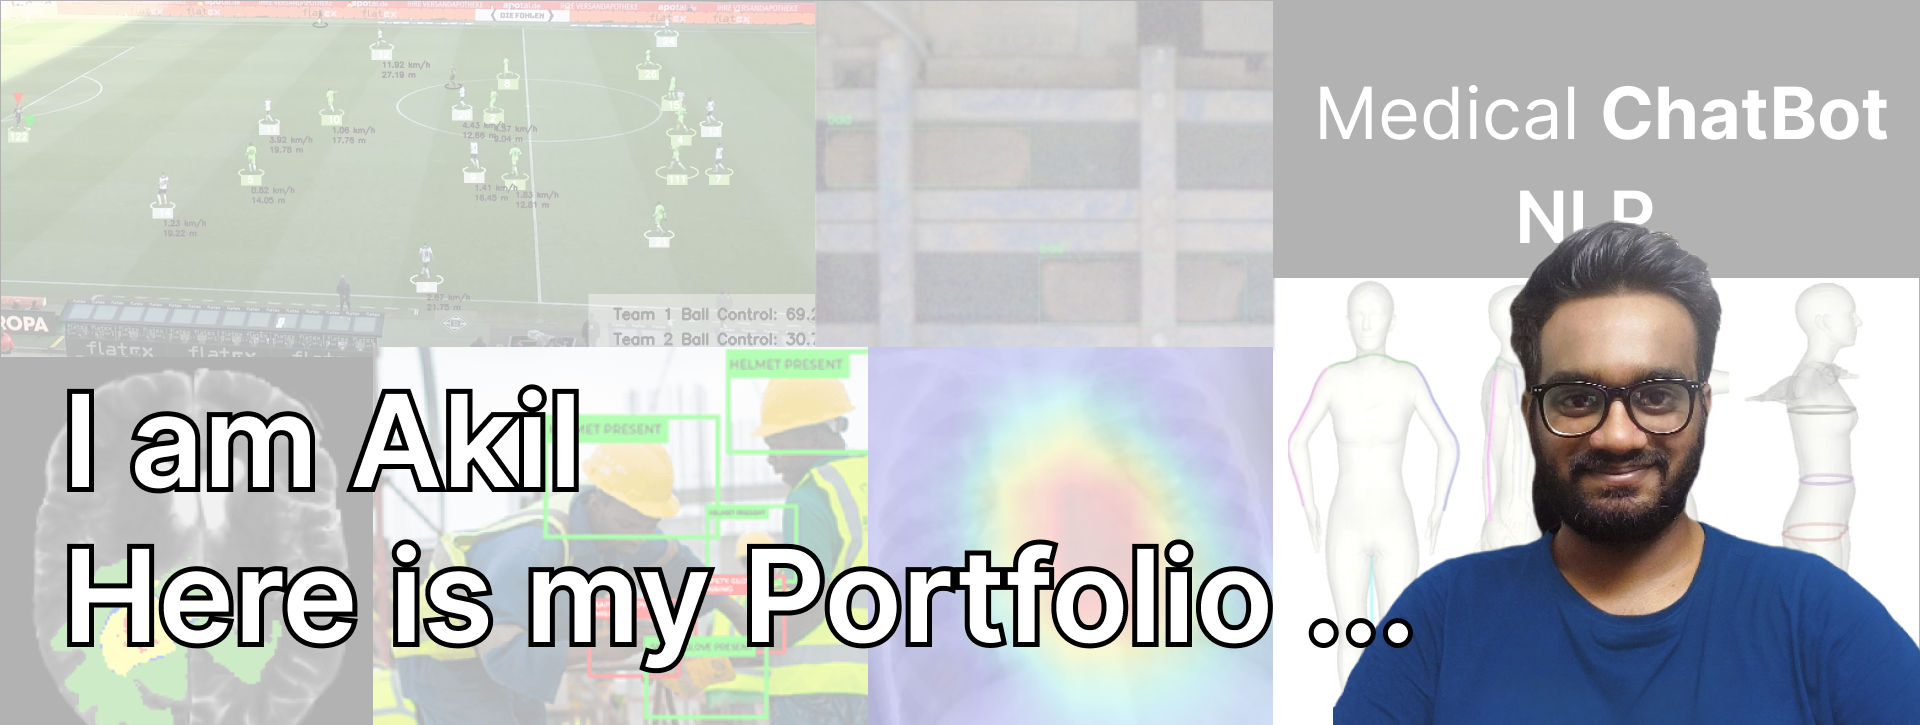
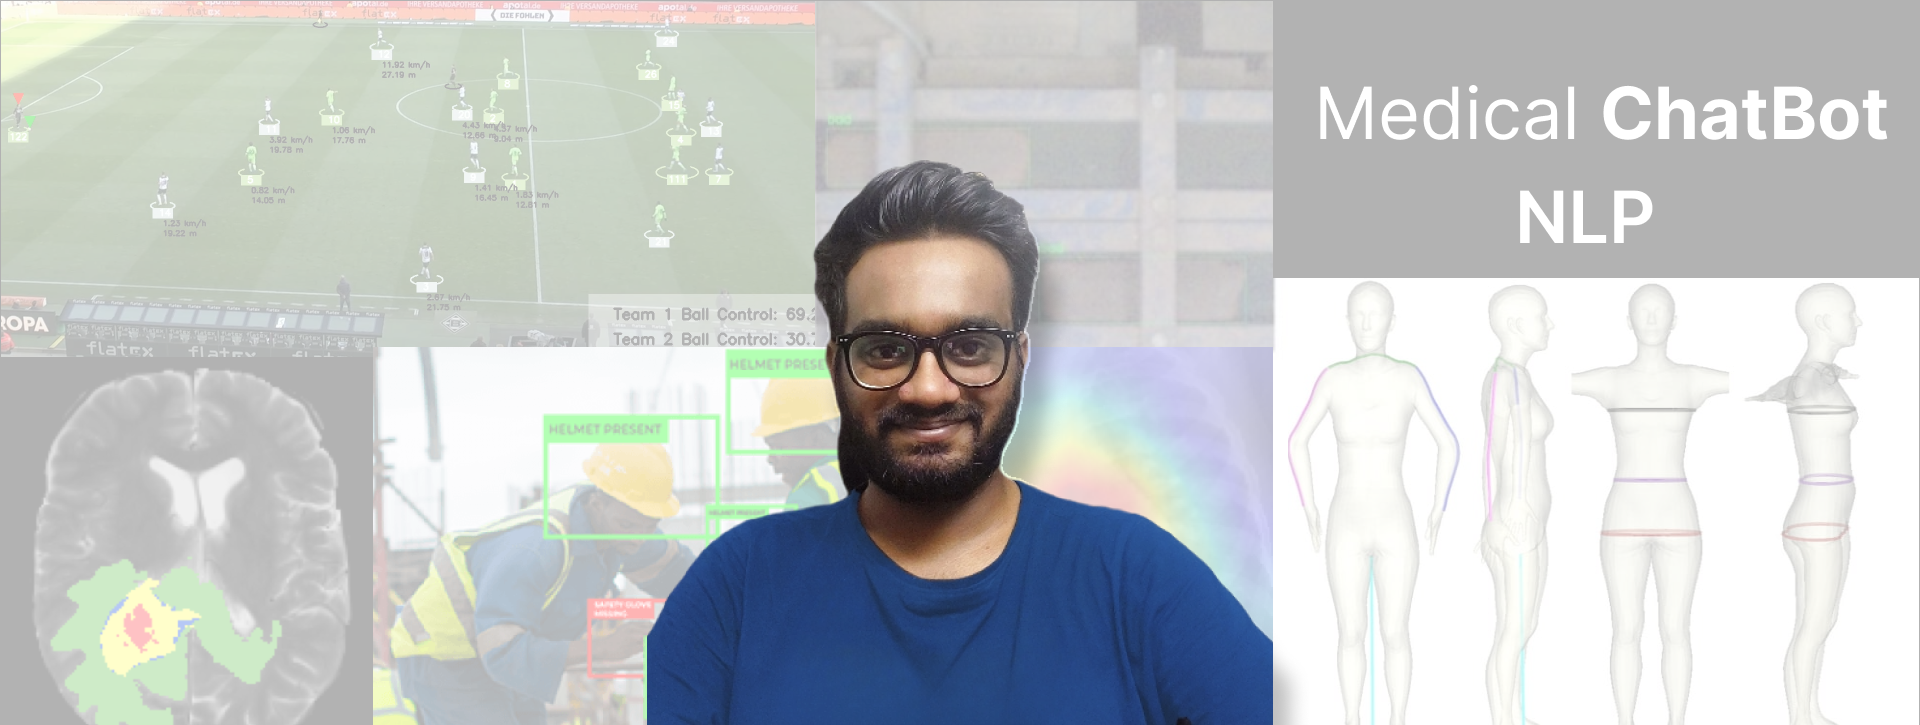
added other project details and images

Changed region(s): [[0.0312, 0.2124, 1.0, 1.0], [0.0312, 0.5159, 0.3125, 0.6979]]

diff --git a/scripts.js b/scripts.js
@@ -14,17 +14,17 @@ document.addEventListener('DOMContentLoaded', () => {
                 <div>
                     <div class="card mb-3">
                         <div class="row g-0">
+                            <h3 class="card-title pl-4 pt-3 pb-2">${project.title}</h5>
                             <div class="col-md-12 projects-list-parent">
                                 <img src="${project.image}" class="img-fluid project-image" alt="${project.title}">
                             </div>
                             <div class="col-md-12 col-sm-12">
                                 <div class="card-body">
-                                    <h5 class="card-title">${project.title}</h5>
+                                    <h5 class="card-title">Highlights</h5>
                                     <ul class="lists">${list}</ul>
                                     <div class="col-md-12 col-sm-12">
                                         <p>Stack: ${project.tags.join(" | ")}</p>
                                     </div>
-                                    <a href="#" class="btn btn-primary">View Project</a>
                                 </div>
                             </div>
                         </div>
@@ -39,8 +39,8 @@ document.addEventListener('DOMContentLoaded', () => {
     fetch('project-data.json')
     .then(response => response.json())
     .then(data => {
-        generateProjectsHTML('projects-list-company', data);
-        generateProjectsHTML('projects-list-personal', data);
+        generateProjectsHTML('projects-list-company', data.company_projects);
+        generateProjectsHTML('projects-list-personal', data.personal_projects);
     })
     .catch(error => console.error('Error loading JSON file:', error));
 

diff --git a/styles.css b/styles.css
@@ -18,11 +18,9 @@ body {
     text-align: center;
   }
   
-  .intro h1, .intro p {
-    color: white; /* Text color */
-  }
+ 
 
-  .bio {
+.bio {
     font-family: monospace ;
     text-align: center;
     font-style: italic;
@@ -43,14 +41,18 @@ body {
     transition: 0.4s;
 }
 
- /* .active, .collapsible:hover {
+ .active, .collapsible:hover {
     background-color:  #1f1f1f;
     border-color: None;
     margin-bottom: 1rem;
-} */
+}
 
 .card {
     background-color: #1f1f1f;
+}
+
+.card h3{
+    color: white;
 }
 
 .card-body {
@@ -73,7 +75,7 @@ body {
 
 
 .project-image {
-    object-fit: cover; 
+    object-fit:cover; 
     object-position: center; /* Center the image within the element */
     width: 100%;
     max-height: 270px;

diff --git a/index.html b/index.html
@@ -19,7 +19,7 @@
     <!-- Navbar -->
     <nav class="navbar navbar-expand-lg navbar-dark bg-dark fixed-top">
         <div class="container-fluid col-lg-7 col-md-10 col-sm-12">
-            <a class="navbar-brand" href="#">My Portfolio</a>
+            <a class="navbar-brand" href="#">Akil Ahmed</a>
             <button class="navbar-toggler" type="button" data-bs-toggle="collapse" data-bs-target="#navbarNav" aria-controls="navbarNav" aria-expanded="false" aria-label="Toggle navigation">
                 <span class="navbar-toggler-icon"></span>
             </button>
